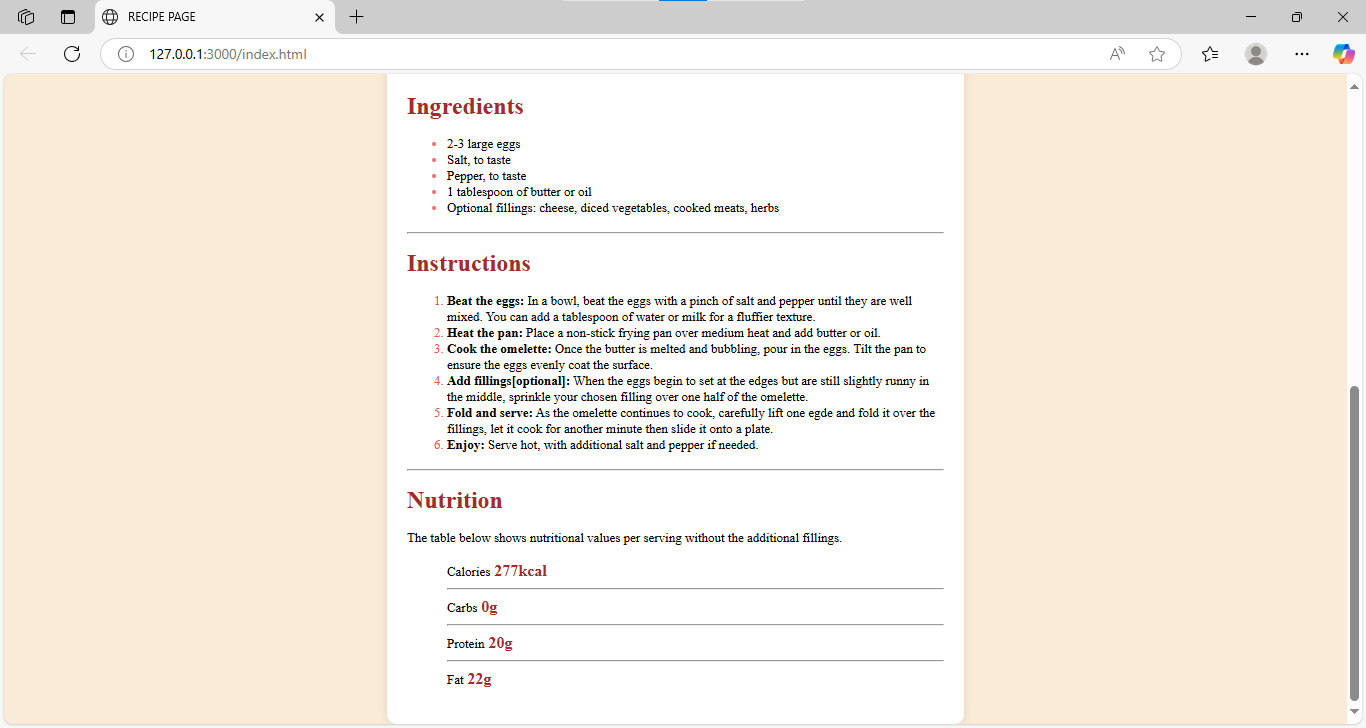
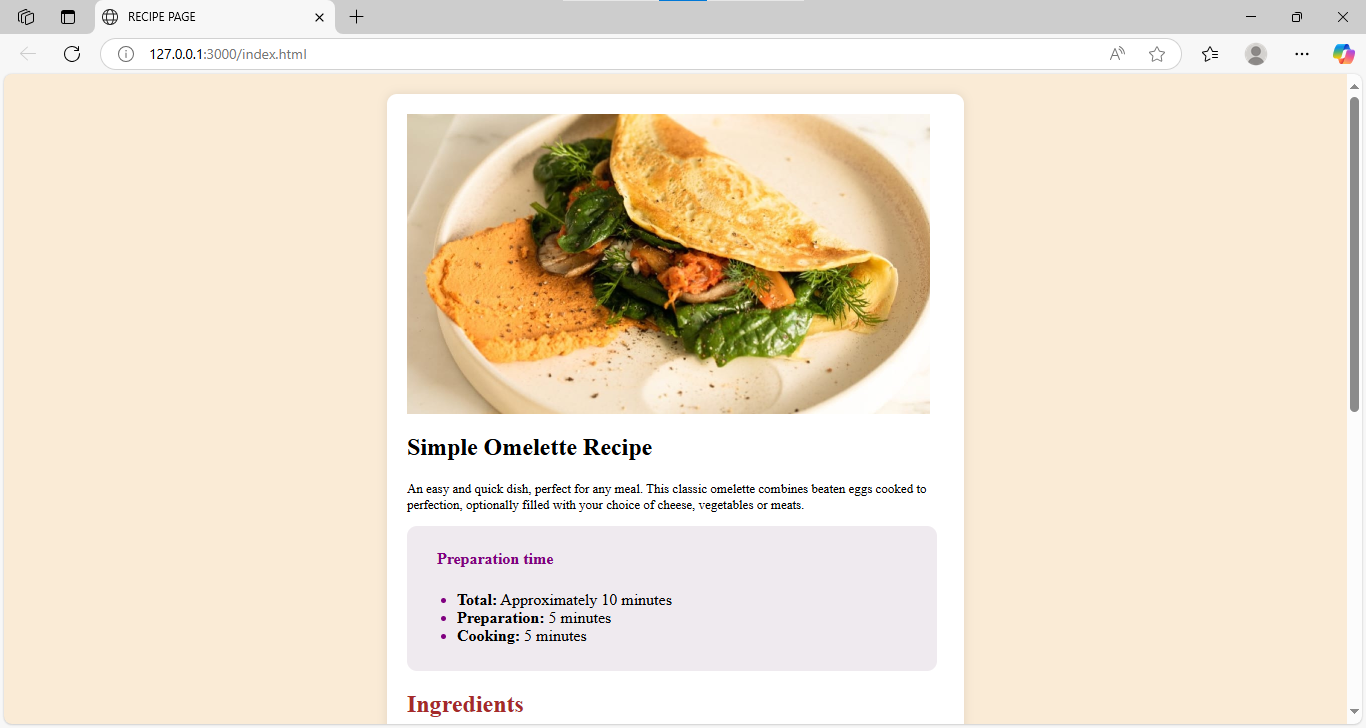
Updated css and Readme to match original image

Changed region(s): [[0.2767, 0.0907, 0.7072, 0.6346], [0.2767, 0.6648, 0.6764, 0.9973], [0.9839, 0.1209, 1.0, 0.967]]

diff --git a/style.css b/style.css
@@ -19,7 +19,7 @@ body {background-image: url('cream-biege.jpeg'); /* Ensure this path is correct 
                   min-height: 100vh; /* Ensure the box fills the page */ }
 
 
-.recipe-container .omelette{background-image: url(omelette.jpeg);
+.recipe-container .omelette{background-image: url(image-omelette.jpeg);
                             background-size: cover;
                             background-repeat: no-repeat;
                             background-position: center;

diff --git a/README.md b/README.md
@@ -12,12 +12,13 @@ This project displays a basic omelette recipe with preparation time, ingredients
 https://echo-script0.github.io/Recipe-page/
 
 ## Screenshot
-![Preview](screenshot.png) 
-![Preview 2](image.png)
+![Preview](image.png) 
+![Preview 2](screenshot.png)
 
 ## Technologies
-- HTML
-- CSS
+- HTML 5
+- CSS (Flexbox)
 
 ## Author
-Aisha Adeyemo ✨
+- Aisha Adeyemo ✨
+- Frontend Mentor - (https://www.frontendmentor.io/profile/echo-script0)
